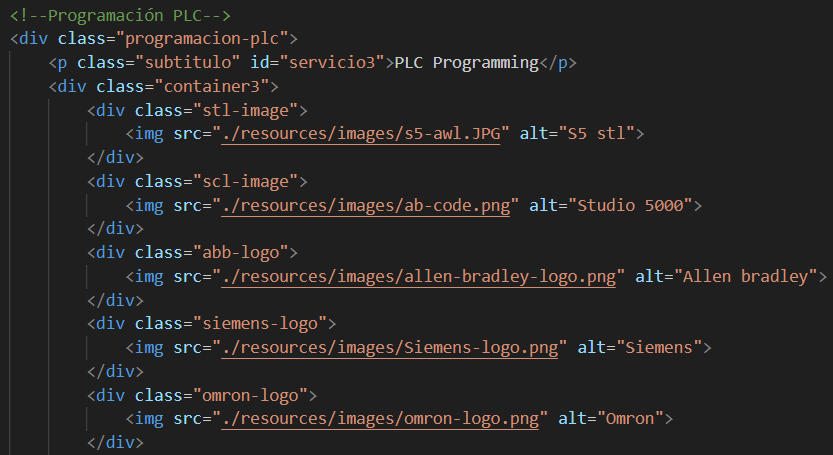
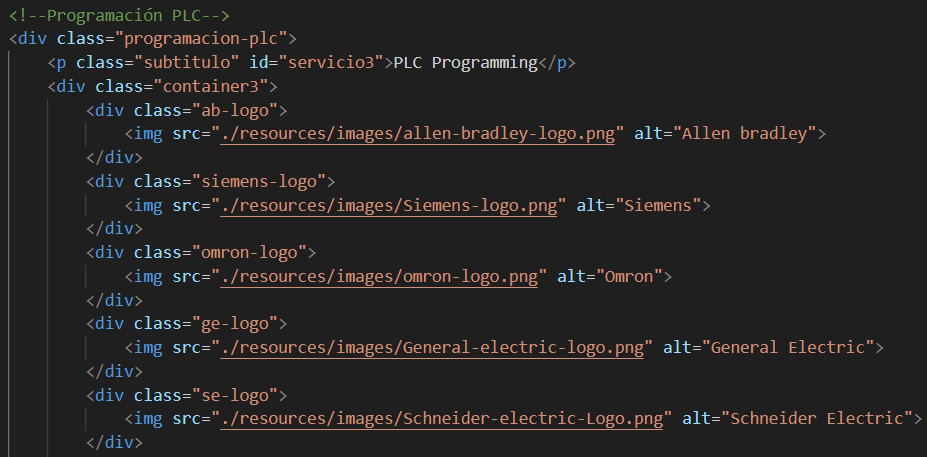
Mantenimiento 1.7

Changed region(s): [[0.0, 0.0, 0.9988, 1.0]]

diff --git a/programming.html b/programming.html
@@ -68,13 +68,7 @@
             <div class="programacion-plc">
                 <p class="subtitulo" id="servicio3">PLC Programming</p>
                 <div class="container3">
-                    <div class="stl-image">
-                        <img src="./resources/images/s5-awl.JPG" alt="S5 stl">
-                    </div>
-                    <div class="scl-image">
-                        <img src="./resources/images/ab-code.png" alt="Studio 5000">
-                    </div>
-                    <div class="abb-logo">
+                    <div class="ab-logo">
                         <img src="./resources/images/allen-bradley-logo.png" alt="Allen bradley">
                     </div>
                     <div class="siemens-logo">
@@ -83,14 +77,14 @@
                     <div class="omron-logo">    
                         <img src="./resources/images/omron-logo.png" alt="Omron">
                     </div>
-                    <div class="mitsubishi-logo">
-                        <img src="./resources/images/Mitsubishi-logo.png" alt="Mitsubishi">
-                    </div>
                     <div class="ge-logo">
                         <img src="./resources/images/General-electric-logo.png" alt="General Electric">
                     </div>
                     <div class="se-logo">
                         <img src="./resources/images/Schneider-electric-Logo.png" alt="Schneider Electric">
+                    </div>
+                    <div class="mitsubishi-logo">
+                        <img src="./resources/images/Mitsubishi-logo.png" alt="Mitsubishi">
                     </div>
                     <div class="ad-logo">
                         <img src="./resources/images/automation-direct-logo.png" alt="Automation Direct">
